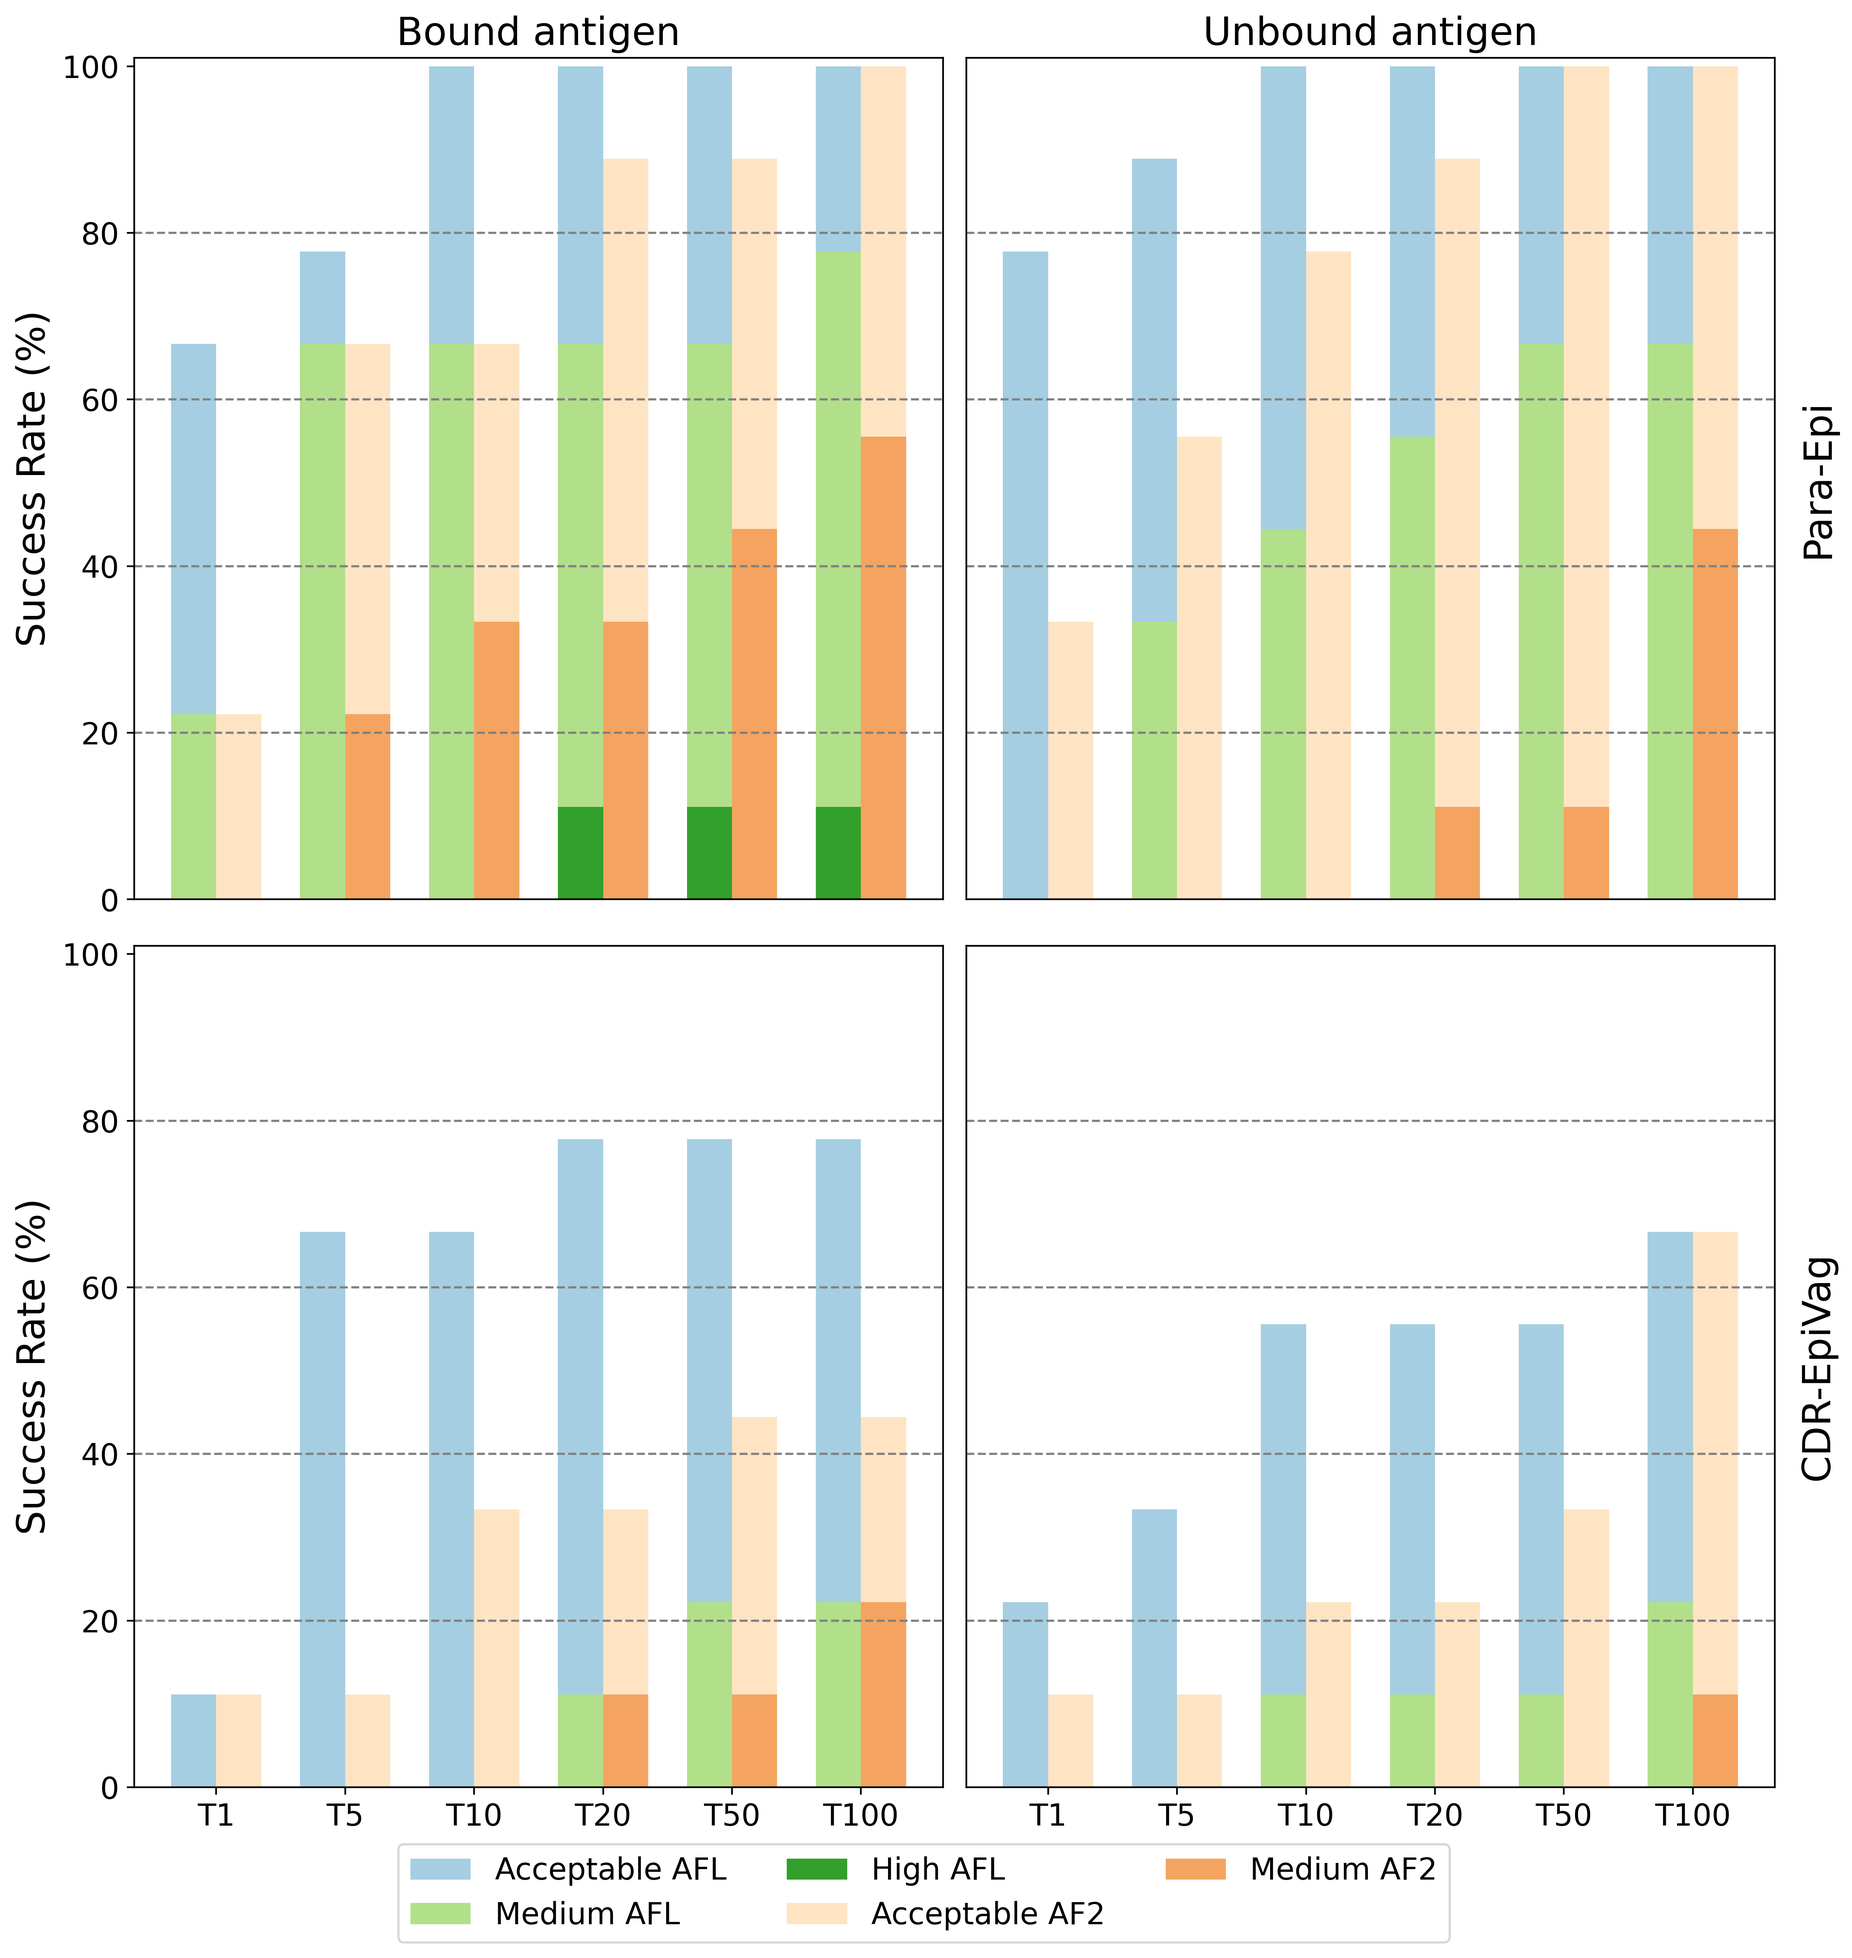
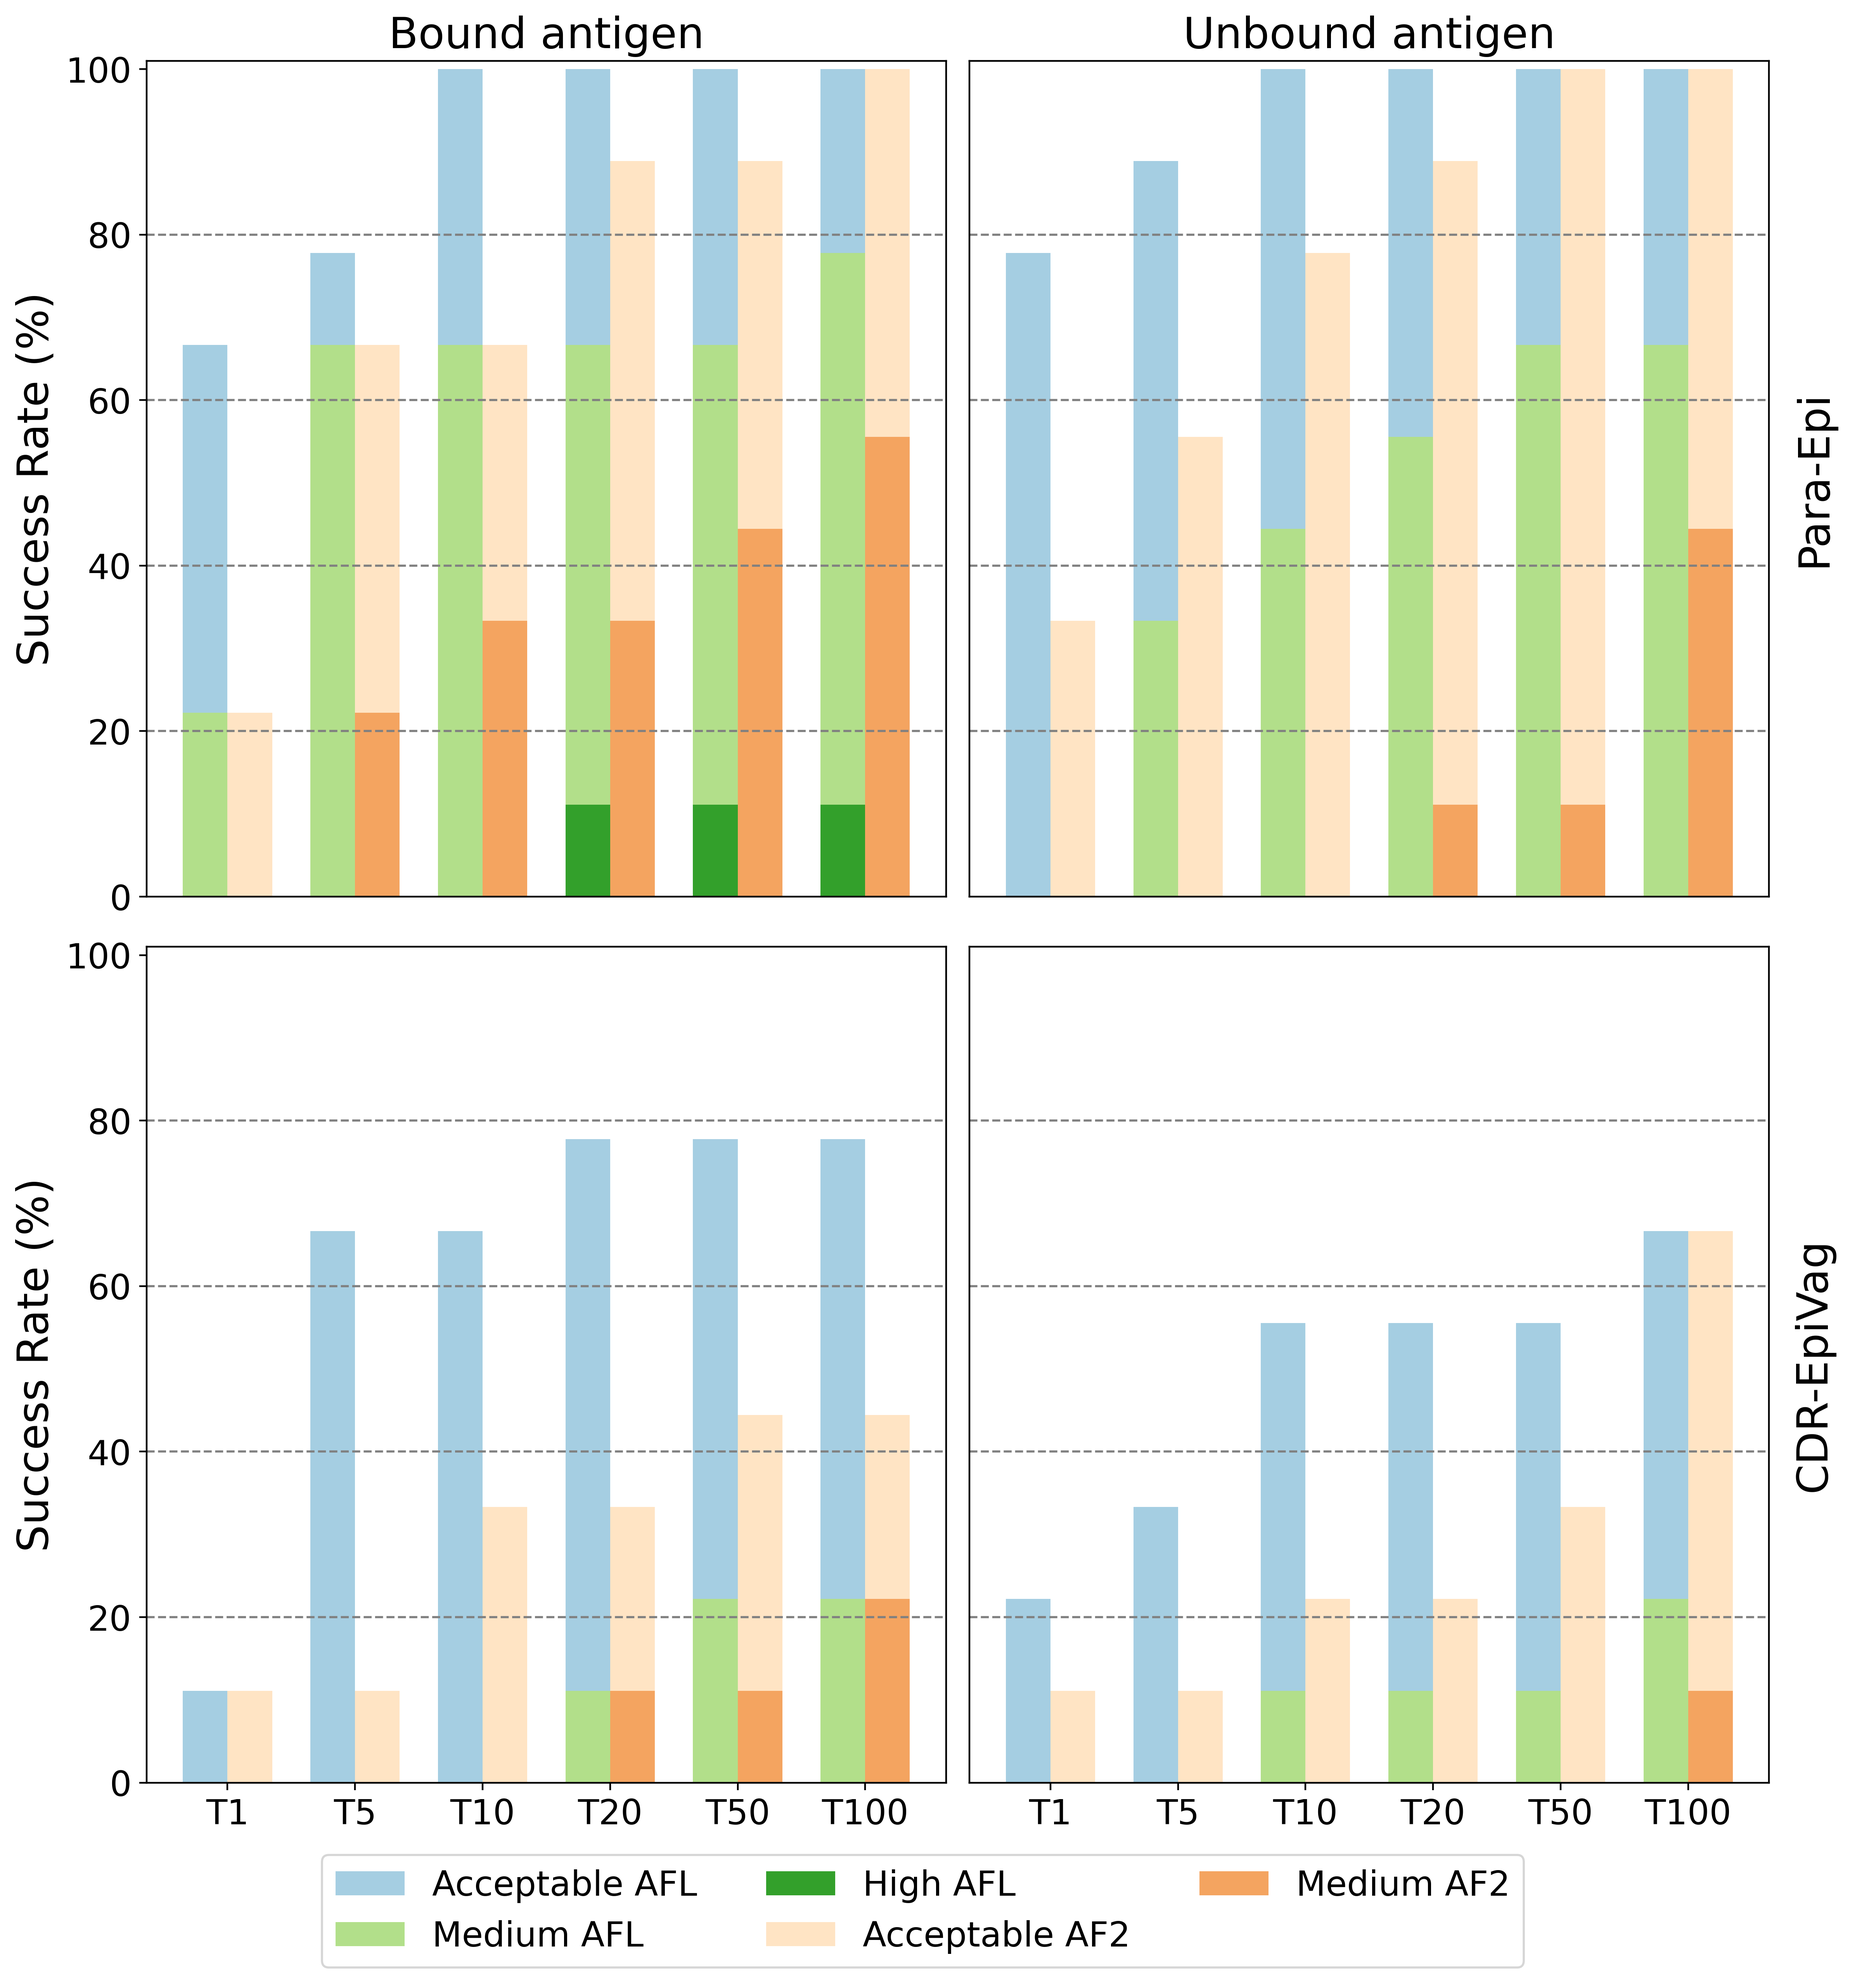
moved docking figure

diff --git a/analysis/docking_analysis.py b/analysis/docking_analysis.py
@@ -113,4 +113,4 @@ ax[1,1].yaxis.set_label_coords(1.03,0.5)
 fig.legend(loc='lower center', bbox_to_anchor=(0.5, -0.07), ncol=3, fontsize=16, bbox_transform=fig.transFigure)
 
 plt.tight_layout()
-plt.savefig("figures/docking_table.png", bbox_inches='tight', dpi=400)
+plt.savefig(Path("figures", "docking", "docking_table.png"), bbox_inches='tight', dpi=400)
